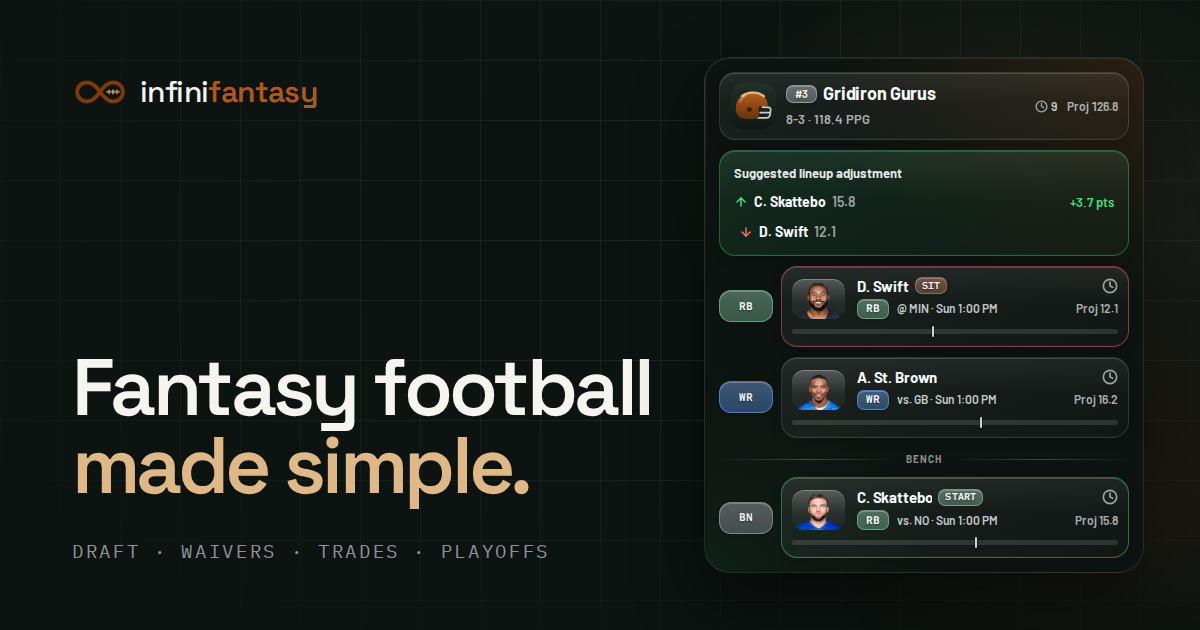
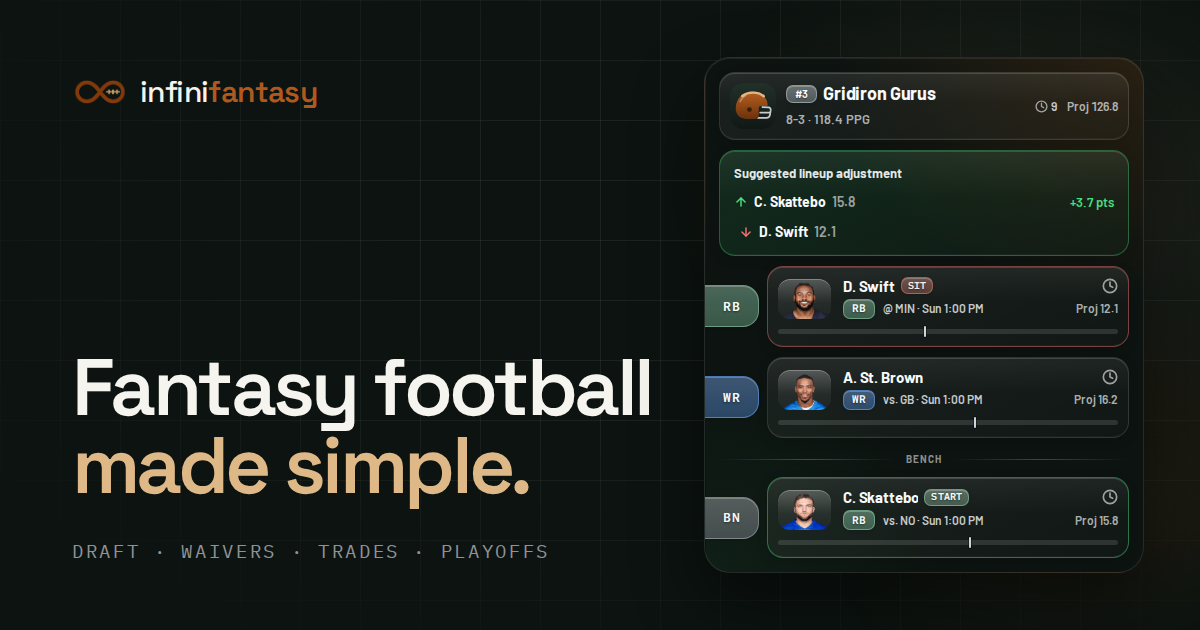
infinifantasy: roster slot chips bleed off the screen edge like the app

Changed region(s): [[0.5858, 0.4222, 0.8325, 0.6635], [0.5858, 0.754, 0.8325, 0.8746]]

diff --git a/infinifantasy/src/styles.css b/infinifantasy/src/styles.css
@@ -351,10 +351,12 @@ h1 {
 }
 
 .gm {
+  --gm-pad: 14px;
   display: grid;
   gap: 10px;
-  padding: 14px;
+  padding: var(--gm-pad);
   border-radius: 26px;
+  overflow: hidden;
   font-family: "Barlow", var(--font-body);
   color: #f8fafc;
   background:
@@ -703,9 +705,17 @@ h1 {
   min-width: 0;
 }
 
+/* Roster slot chips run off the screen's left edge, like the app's on mobile
+   (.rosterRow > .slotChip): pulled out past the panel padding by --chip-bleed and clipped by
+   .gm's overflow, with the label padded back in so it stays centered in the visible part. */
 .gm-roster-slot {
-  width: 54px;
-  padding: 0 6px;
+  --chip-bleed: calc(var(--gm-pad) + 24px);
+  width: calc(54px + var(--chip-bleed) - var(--gm-pad));
+  height: 42px;
+  margin-left: calc(-1 * var(--chip-bleed));
+  padding: 0 6px 0 calc(6px + var(--chip-bleed) - var(--gm-pad));
+  border-radius: 16px;
+  font-size: 13px;
 }
 
 .gm-wide {
@@ -834,7 +844,7 @@ h1 {
 
 @media (max-width: 400px) {
   .gm {
-    padding: 10px;
+    --gm-pad: 10px;
     gap: 8px;
   }
 
@@ -844,7 +854,7 @@ h1 {
   }
 
   .gm-roster-slot {
-    width: 44px;
+    width: calc(46px + var(--chip-bleed) - var(--gm-pad));
   }
 
   .gm-wide {
